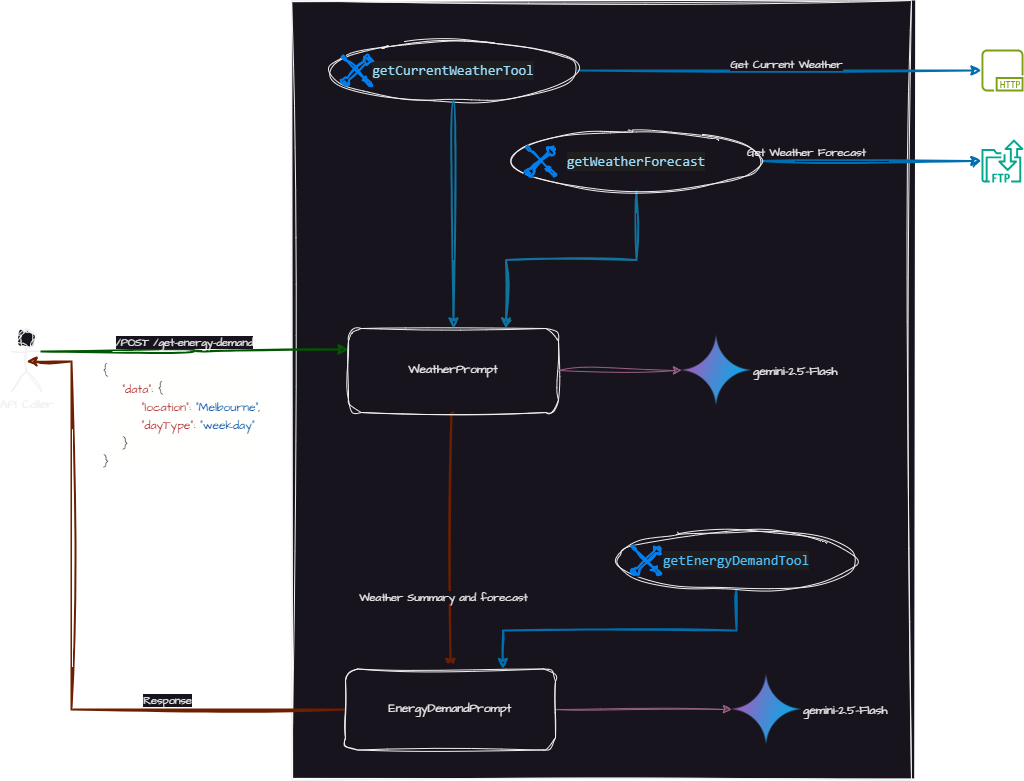
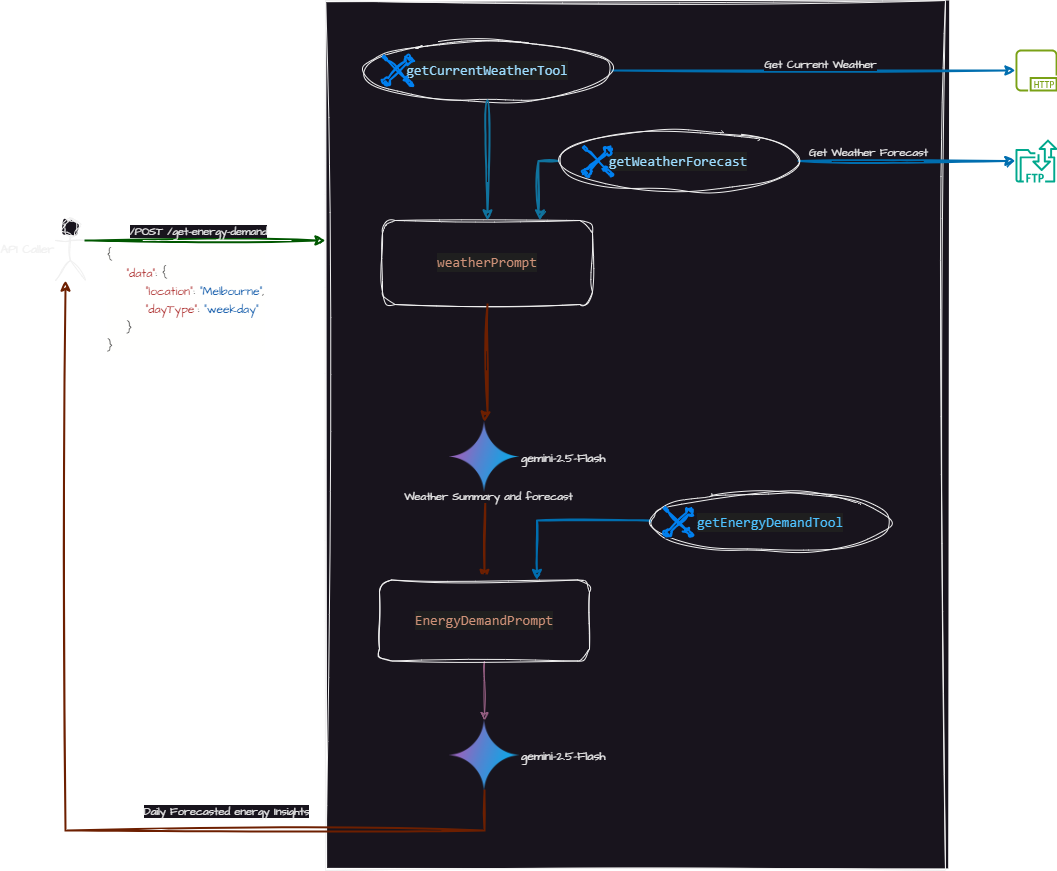
Updated Diagram and Readme

diff --git a/src/index.ts b/src/index.ts
@@ -58,7 +58,7 @@ export const victoriaEnergyMarketFlow = ai.defineFlow(
     const finalReportPrompt = ai.definePrompt(
       {
         output: { schema: rawEnergyReportSchema, format: 'json' },
-        name: "reportPrompt",
+        name: "EnergyDemandPrompt",
         tools: [getEnergyDemandTool],
         system: "You are an energy market analyst able to predict energy demand.",
       },

diff --git a/Readme.md b/Readme.md
@@ -1,6 +1,6 @@
 # Genkit Tool Calling
 
-This project demonstates the "tool-calling" capabilities of Google's Genkit framework. It showcases how a generative AI model can use tools to interact with external systems. 
+This project demonstrates the "tool-calling" capabilities of Google's Genkit framework. It showcases how a generative AI model can use tools to interact with external systems. 
 
 In this case we are using two prompts:
 
@@ -20,6 +20,8 @@ This example project is set up to potentially interact with:
 *   **A HTTP Endpoint:** For Current weather in JSON Format.
 *   **An Anonymous FTP Location:** For Weather Forecast.
 *   **A Simulated output:** For Enenrgy Demand Calculation.
+
+Express Framework is used to publish the API endpoints POST /get-energy-demand.
 
 ## Prerequisites
 
@@ -72,4 +74,26 @@ To start the application without the Genkit UI, run:
 npm run build
 npm start
 ```
+
+## Execute the Flow
+
+To execute the flow initiate a POST request to the application.
+
+```bash
+
+curl --location 'http://127.0.0.1:8080/get-energy-demand' \
+--header 'Content-Type: application/json' \
+--data '{
+    "data": {
+        "location": "Melbourne",
+        "dayType": "weekday"
+    }
+}'
+
+```
+
+## Known Issue
+
+1. The BOM anonymous FTP endpoint sometimes times out, this will give a python error saying "FTP connection Failed". This is not handled well and will not generate a response. For demo pourpose reinitiate the POST call.
+2. The application takes some time to initialize and might cause a restart to express server. This is still being worked upon.
 
